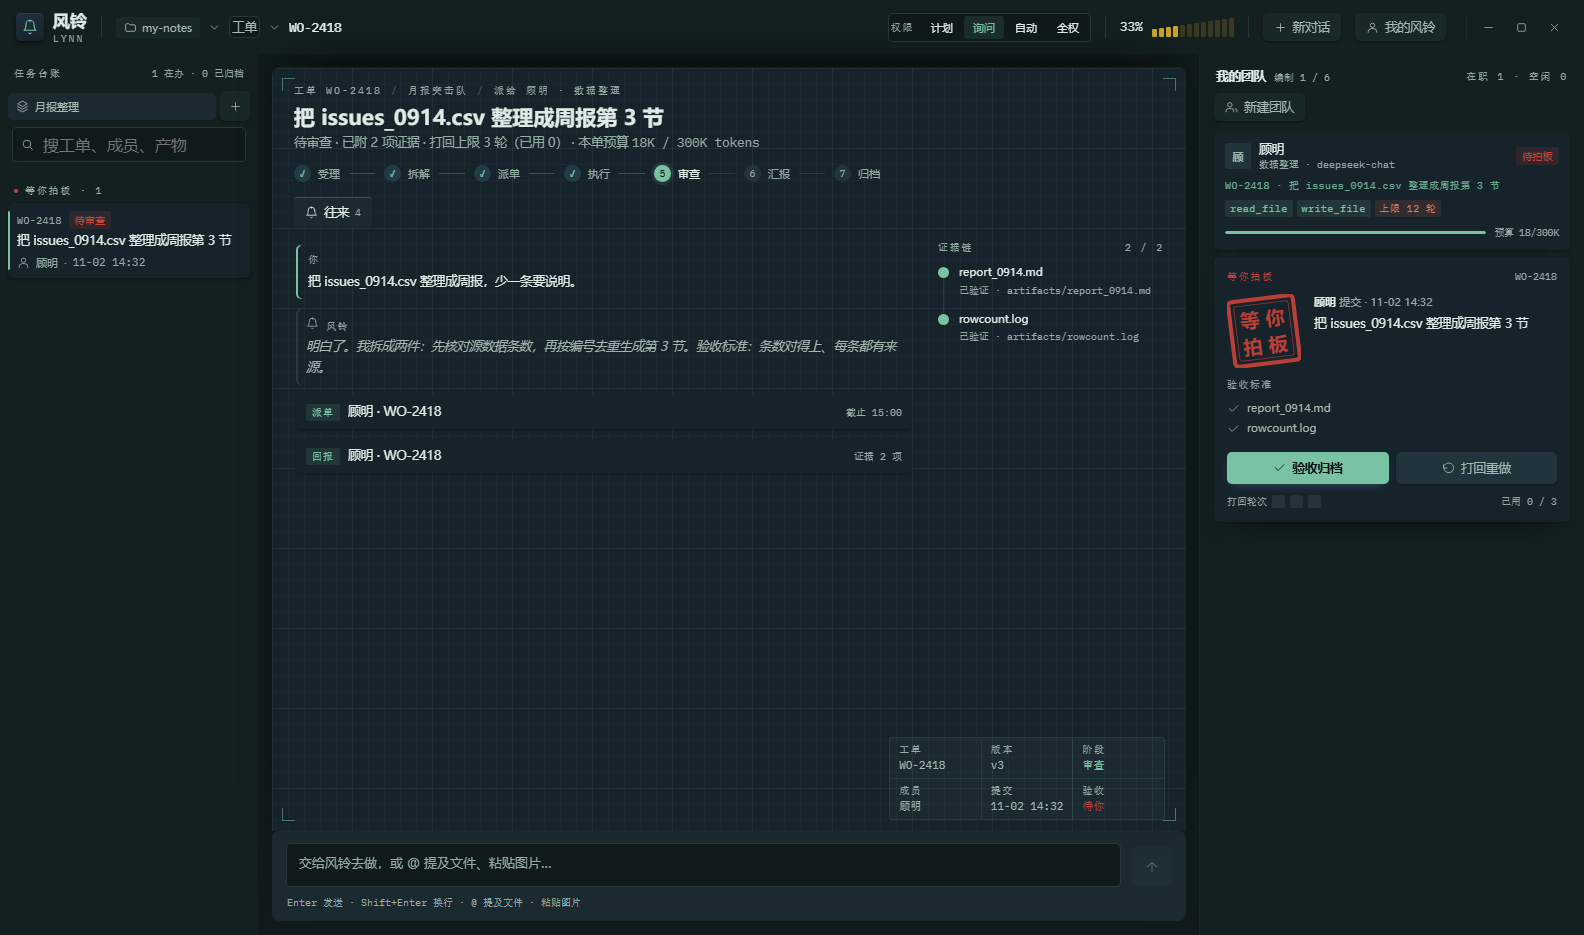
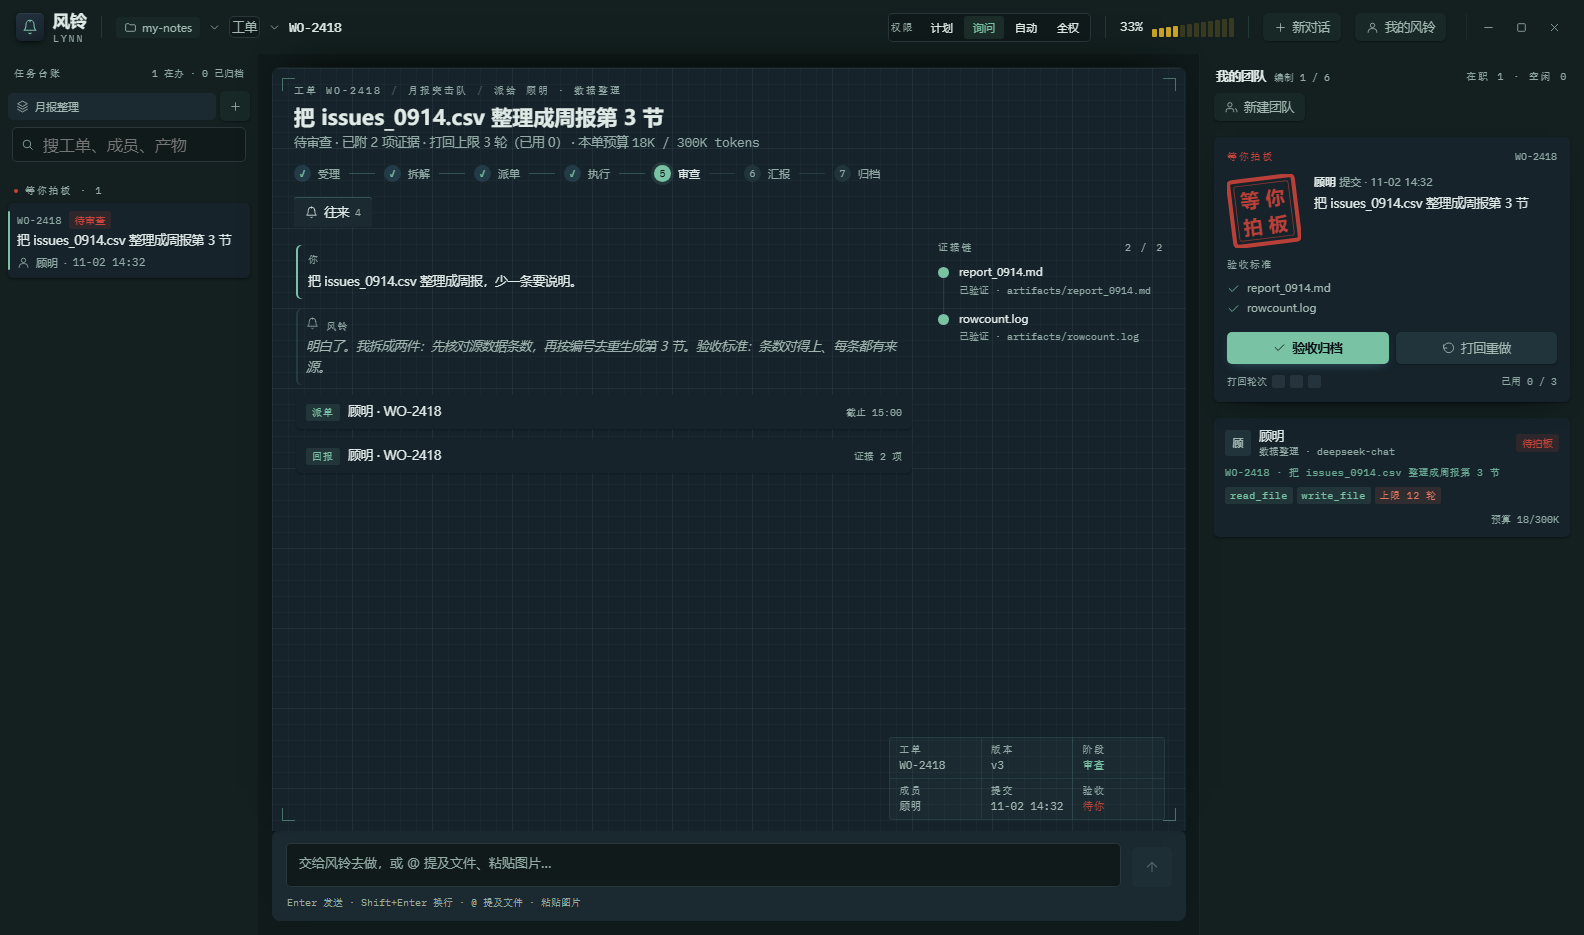
feat(roster): member cards reflect live state, seal moves to the top
- kernel.listTeams(): status/budget/rejections were hardcoded (idle/0/0), so the
  right rail always showed an idle crew. Derive them from memberActive + taskStore
  and accumulate real member tokens in memberUsage.
- member card: linkable when it owns a job (opens that job), +N for hidden tools,
  progress bar only while running (was stuck at 100% afterwards), budget label says
  'cap' when nothing has been spent.
- seal slot moved above the crew list and made sticky: 'awaiting your sign-off'
  no longer requires scrolling past members.
- shots/desk.png refreshed.

diff --git a/src/renderer/desk/Desk.tsx b/src/renderer/desk/Desk.tsx
@@ -708,11 +708,14 @@ function Roster({
   onPlan,
   onAnswer,
   onCancel,
+  onSelectJob,
   onCreateTeam,
 }: {
   desk: Desk;
   /** 当前在图纸上打开的那张单：印章优先对它，不再"取全局第一条" */
   current?: DeskJob;
+  /** 成员卡 → 打开他手上的那张单 */
+  onSelectJob?: (taskId: string) => void;
   onAccept: (taskId: string) => void;
   onReject: (taskId: string) => void;
   onPlan: (id: string, action: "start" | "revise" | "reject", text?: string) => void;
@@ -788,28 +791,36 @@ function Roster({
           </div>
         )}
 
-        {desk.members.map((m) => (
-          <MemberCard key={m.name} m={m} active={!!decision?.jobId && m.jobId === decision.jobId} />
-        ))}
-
-        {decision?.kind === "plan" && decision.plan ? (
-          <PlanSeal decision={decision} onPlan={onPlan} />
-        ) : decision?.kind === "approval" ? (
-          <ApprovalSeal decision={decision} onPlan={onPlan} />
-        ) : decision ? (
-          <QuestionSeal decision={decision} onAnswer={onAnswer} />
-        ) : sealJob?.action === "accept" ? (
-          <AcceptSeal job={sealJob} onAccept={() => onAccept(sealJob.id)} onReject={() => onReject(sealJob.id)} />
-        ) : sealJob?.action === "unblock" ? (
-          <BlockedSeal job={sealJob} onStop={onCancel} />
-        ) : (
-          <div className="sealcard-empty">
-            <Icon name="shield" size="sm" />
-            <div>
-              <b>{t("roster.noDecision")}</b>
+        {/* 印章排在最前：它是"该你拍板"的唯一落点，不能藏在成员卡下面要滚动才看见 */}
+        <div className="seal-slot">
+          {decision?.kind === "plan" && decision.plan ? (
+            <PlanSeal decision={decision} onPlan={onPlan} />
+          ) : decision?.kind === "approval" ? (
+            <ApprovalSeal decision={decision} onPlan={onPlan} />
+          ) : decision ? (
+            <QuestionSeal decision={decision} onAnswer={onAnswer} />
+          ) : sealJob?.action === "accept" ? (
+            <AcceptSeal job={sealJob} onAccept={() => onAccept(sealJob.id)} onReject={() => onReject(sealJob.id)} />
+          ) : sealJob?.action === "unblock" ? (
+            <BlockedSeal job={sealJob} onStop={onCancel} />
+          ) : (
+            <div className="sealcard-empty">
+              <Icon name="shield" size="sm" />
+              <div>
+                <b>{t("roster.noDecision")}</b>
+              </div>
             </div>
-          </div>
-        )}
+          )}
+        </div>
+
+        {desk.members.map((m) => (
+          <MemberCard
+            key={m.name}
+            m={m}
+            active={!!decision?.jobId && m.jobId === decision.jobId}
+            onSelect={onSelectJob}
+          />
+        ))}
       </div>
     </aside>
   );
@@ -1043,11 +1054,28 @@ function BlockedSeal({ job, onStop }: { job: DeskJob; onStop?: (taskId: string) 
   );
 }
 
-function MemberCard({ m, active }: { m: DeskMember; active: boolean }) {
+function MemberCard({ m, active, onSelect }: { m: DeskMember; active: boolean; onSelect?: (jobId: string) => void }) {
   const t = useT();
   const chip = m.status === "delivered" ? "st-wait" : m.status === "running" || m.status === "stuck" ? "st-live" : "st-idle";
+  const open = () => {
+    if (m.jobId) onSelect?.(m.jobId);
+  };
+  const hiddenTools = Math.max(0, m.tools.length - 4);
   return (
-    <div className={`mcard${active ? " active" : ""}`}>
+    <div
+      className={`mcard${active ? " active" : ""}${m.jobId ? " linkable" : ""}`}
+      role={m.jobId ? "button" : undefined}
+      tabIndex={m.jobId ? 0 : undefined}
+      title={m.jobId ? t("member.openJob", { id: m.jobId }) : undefined}
+      onClick={open}
+      onKeyDown={(e) => {
+        if (!m.jobId) return;
+        if (e.key === "Enter" || e.key === " ") {
+          e.preventDefault();
+          open();
+        }
+      }}
+    >
       <div className="mcard-top">
         <div className={`mcard-avatar${m.status !== "idle" ? " on" : ""}`}>{m.name.slice(0, 1)}</div>
         <div style={{ minWidth: 0, flex: 1 }}>
@@ -1071,13 +1099,19 @@ function MemberCard({ m, active }: { m: DeskMember; active: boolean }) {
             {tool}
           </span>
         ))}
+        {/* 不再静默截断：多出来的工具给 +N，别让人以为成员只有 4 件工具 */}
+        {hiddenTools > 0 && <span className="chip">+{hiddenTools}</span>}
         <span className="chip r">{t("member.turnLimit", { n: m.turnLimit ?? "—" })}</span>
       </div>
       <div className="mcard-foot">
-        <div className="pbar">
-          <i style={{ width: `${Math.max(0, Math.min(100, m.progress))}%` }} />
-        </div>
-        <span className="mono" style={{ fontSize: 9.5, color: "var(--ink-4)" }}>
+        {m.status === "running" ? (
+          <div className="pbar" title={t("member.progress", { n: Math.round(m.progress) })}>
+            <i style={{ width: `${Math.max(0, Math.min(100, m.progress))}%` }} />
+          </div>
+        ) : (
+          <span style={{ flex: 1 }} />
+        )}
+        <span className="mono" style={{ fontSize: "var(--fs-label)", color: "var(--ink-4)" }}>
           {m.foot}
         </span>
       </div>
@@ -1890,6 +1924,7 @@ export function DeskView({
           onPlan={(id, action, text) => onDecisionResolve(id, action, text)}
           onAnswer={(id, text) => onDecisionResolve(id, "answer", text)}
           onCancel={onCancelTask}
+          onSelectJob={setActiveId}
           onCreateTeam={onCreateTeam}
         />
       </div>

diff --git a/src/main/kernel.ts b/src/main/kernel.ts
@@ -5,6 +5,7 @@ import type {
   Decision,
   FeedCard,
   KernelEvent,
+  MemberStatus,
   PermissionMode,
   QueueItem,
   RpcContracts,
@@ -328,6 +329,8 @@ export class Kernel {
   private memberRuns = new Map<string, Promise<MemberRunResult>>();
   /** 成员进度（姓名 → 0–100）：只在内存里，用来画实时进度 */
   private memberProgress = new Map<string, number>();
+  /** 成员本轮累计 token（`teamId::成员` → tokens）：编制表的预算读数不再是硬编码 0 */
+  private memberUsage = new Map<string, number>();
   /** 每张单的中止器（用户点「停」）：没有它就只能解散全队来止损 */
   private memberAborts = new Map<string, AbortController>();
   /** 成员占用：`teamId::成员` → 正在跑的 taskId（同一成员不许并发跟两张单） */
@@ -1153,6 +1156,8 @@ export class Kernel {
     void run
       .then((result) => {
         this.memberProgress.set(member, 100);
+        // 预算读数：按真实 token 累计（此前编制表恒显示 0）
+        this.memberUsage.set(memberKey, (this.memberUsage.get(memberKey) ?? 0) + result.promptTokens + result.completionTokens);
         const used = Math.round((Date.now() - startedAt) / 1000);
         if (result.status === "reported" && result.evidence.length > 0) {
           // 只有真交了证据才登记；空回报进登记通道会抛错，原来那条路直接变成"崩溃"卡
@@ -2070,24 +2075,43 @@ export class Kernel {
       const tf = path.join(dir, entry.name, "team.json");
       if (!fs.existsSync(tf)) continue;
       const rec = JSON.parse(fs.readFileSync(tf, "utf-8")) as { id: string; name: string; status: string };
+      // 成员卡必须是"现场"而不是"档案"：状态/预算/打回都从真实指派推导，
+      // 原先这里写死 status:"idle"、budgetUsed:0、rejections:0，右栏永远显示空闲
+      const allTasks = this.taskStore.list();
       const members = this.teamStore
         .listMembers(entry.name)
-        .map((p, i) => ({
-          name: p.name,
-          role: p.role,
-          goal: p.goal,
-          status: "idle" as const,
-          statusNote: p.goal,
-          progress: this.memberProgress.get(p.name) ?? 0,
-          budgetUsed: 0,
-          budgetTotal: Math.round(p.limits.budgetTokens / 1000),
-          rejections: 0,
-          rejectionLimit: 3,
-          toolWhitelist: p.tools,
-          color: this.teamColor(i),
-          model: p.model,
-          turnLimit: p.limits.maxTurns,
-        }));
+        .map((p, i) => {
+          const key = `${entry.name}::${p.name}`;
+          const runningTask = this.memberActive.get(key);
+          const mine = allTasks
+            .filter((t) => t.teamId === entry.name && t.member === p.name)
+            .sort((a, b) => (a.updatedAt < b.updatedAt ? 1 : -1));
+          const activeTask = mine.find((t) => t.status !== "done" && t.status !== "canceled") ?? mine[0];
+          const status: MemberStatus = runningTask
+            ? "running"
+            : activeTask?.status === "in_review"
+              ? "delivered"
+              : activeTask?.status === "blocked" || activeTask?.status === "in_progress"
+                ? "stuck"
+                : "idle";
+          return {
+            name: p.name,
+            role: p.role,
+            goal: p.goal,
+            status,
+            statusNote: p.goal,
+            // 只有真在跑才给进度；空闲时归零，别留着上次的 100%
+            progress: runningTask ? this.memberProgress.get(p.name) ?? 0 : 0,
+            budgetUsed: Math.round((this.memberUsage.get(key) ?? 0) / 1000),
+            budgetTotal: Math.round(p.limits.budgetTokens / 1000),
+            rejections: activeTask?.rejectRounds ?? 0,
+            rejectionLimit: activeTask?.rejectLimit ?? 3,
+            toolWhitelist: p.tools,
+            color: this.teamColor(i),
+            model: p.model,
+            turnLimit: p.limits.maxTurns,
+          };
+        });
       teams.push({
         id: rec.id,
         name: rec.name,

diff --git a/src/renderer/desk/model.ts b/src/renderer/desk/model.ts
@@ -278,7 +278,9 @@ export function deskFromSnapshot(snap: SessionSnapshot): Desk {
     .filter((t) => t.status !== "dissolved")
     .flatMap((t) =>
       t.members.map((m) => {
-        const job = jobs.find((j) => j.member === m.name && j.status !== "done");
+        // 一张成员卡优先挂"需要你的/在跑的"那张单，其次才是最近归档前的那张
+        const mine = jobs.filter((j) => j.member === m.name && j.group !== "archived");
+        const job = mine.find((j) => j.action !== "none") ?? mine.find((j) => j.group === "running") ?? mine[0];
         return {
           name: m.name,
           role: m.role,
@@ -291,7 +293,13 @@ export function deskFromSnapshot(snap: SessionSnapshot): Desk {
           turnLimit: m.turnLimit,
           progress:
             snap.turn.member === m.name && typeof snap.turn.progress === "number" ? snap.turn.progress : m.progress,
-          foot: m.budgetTotal > 0 ? `预算 ${m.budgetUsed}/${m.budgetTotal}K` : "保留编制",
+          // 没用过预算就说"上限"，别用 0/300K 冒充"已经花了 0"
+          foot:
+            m.budgetTotal > 0
+              ? m.budgetUsed > 0
+                ? `预算 ${m.budgetUsed}/${m.budgetTotal}K`
+                : `预算上限 ${m.budgetTotal}K`
+              : "保留编制",
           rejections: m.rejections,
           rejectLimit: m.rejectionLimit,
         };

diff --git a/src/renderer/styles/dispatch.css b/src/renderer/styles/dispatch.css
@@ -548,6 +548,10 @@ svg.ic.lg { width: 20px; height: 20px; }
   content: ""; position: absolute; left: 0; top: 10px; bottom: 10px; width: 2px;
   background: var(--blue); border-radius: 2px;
 }
+/* 手上有单的成员卡可以点开工单：给手型与 hover，否则它就是一张纸 */
+.mcard.linkable { cursor: pointer; }
+.mcard.linkable:hover { background: var(--hover-bg); }
+.mcard.linkable:focus-visible { outline: 1.5px solid var(--blue); outline-offset: 1px; }
 .mcard-top { display: flex; align-items: center; gap: 8px; }
 .mcard-avatar {
   width: 26px; height: 26px; border-radius: var(--r-s); flex: none;
@@ -586,6 +590,12 @@ svg.ic.lg { width: 20px; height: 20px; }
   padding: 13px 13px 14px;
   box-shadow: 0 1px 2px rgba(0,0,0,.4), 0 14px 30px -22px #000;
   position: relative; overflow: hidden;
+}
+/* 印章槽：钉在右栏顶部，滚成员名单时它不会跟着消失 */
+.seal-slot {
+  position: sticky; top: 0; z-index: 3;
+  background: var(--desk-2);
+  padding-top: 2px;
 }
 .sealcard-h { display: flex; align-items: center; justify-content: space-between; }
 .sealcard-h .k { font-family: var(--f-mono); font-size: var(--fs-label); letter-spacing: .18em; text-transform: uppercase; color: var(--seal); }

diff --git a/src/shared/i18n-strings.ts b/src/shared/i18n-strings.ts
@@ -174,6 +174,8 @@ export const ZH_STRINGS: Record<string, string> = {
   "seal.blockedStop": "停掉这张单",
   "seal.blockedNote": "卡住不是交付，不能验收归档",
   "member.turnLimit": "上限 {n} 轮",
+  "member.openJob": "打开他手上的工单 {id}",
+  "member.progress": "本轮进度 {n}%",
   // 工单状态与阶段（七态 + 七阶段）
   "status.backlog": "待受理",
   "status.todo": "待派单",
@@ -431,6 +433,8 @@ export const EN_STRINGS: Record<string, string> = {
   "seal.blockedNote": "Stuck is not delivered — cannot be accepted",
   "seal.roundsUsed": "{a} of {b} used",
   "member.turnLimit": "max {n} turns",
+  "member.openJob": "Open job {id}",
+  "member.progress": "This run: {n}%",
   "status.backlog": "Queued",
   "status.todo": "To dispatch",
   "status.in_progress": "Running",
